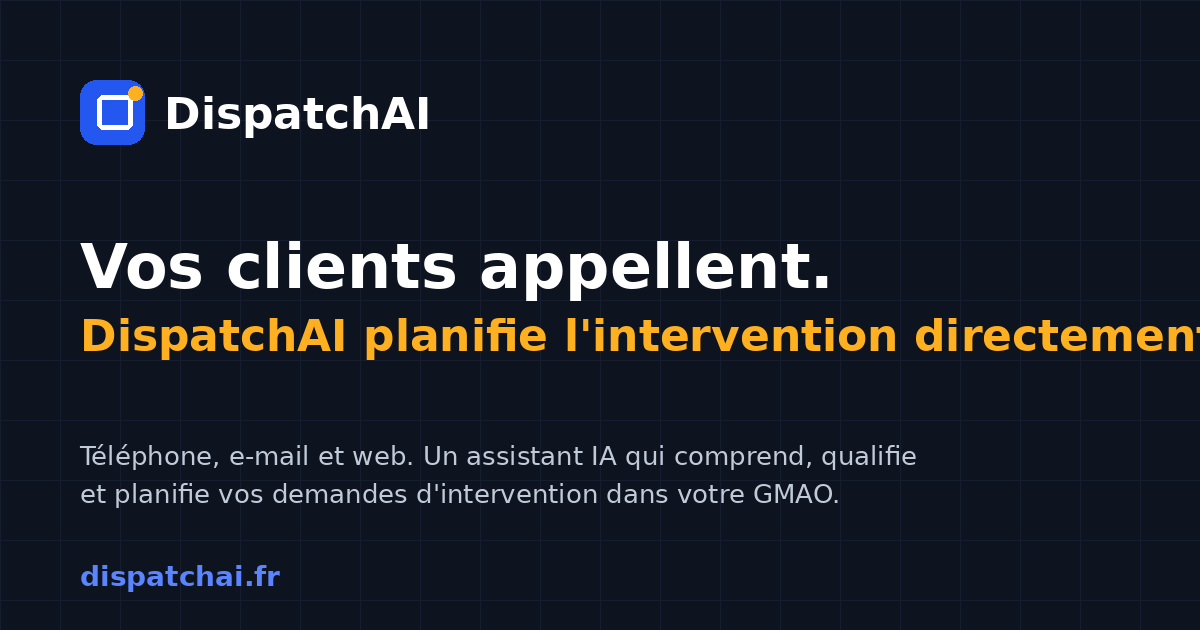
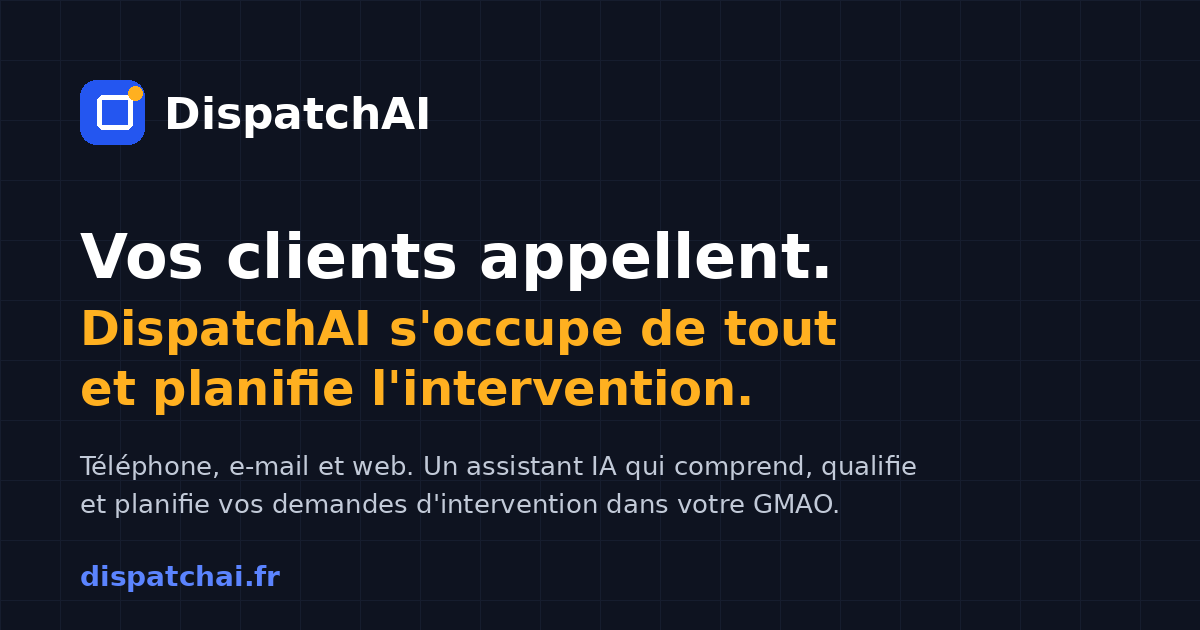
Hero : titre (s'occupe de tout et planifie l'intervention)

Changed region(s): [[0.0617, 0.3619, 1.0, 0.6635], [0.0617, 0.6937, 0.7708, 0.8143]]

diff --git a/public/index.html b/public/index.html
@@ -3,7 +3,7 @@
 <head>
 <meta charset="utf-8">
 <meta name="viewport" content="width=device-width, initial-scale=1, viewport-fit=cover">
-<title>DispatchAI : vos clients appellent, l'intervention est planifiée directement</title>
+<title>DispatchAI : vos clients appellent, DispatchAI s'occupe de tout et planifie l'intervention</title>
 <meta name="description" content="DispatchAI reçoit les demandes d'intervention de vos clients par téléphone, e-mail et web, les comprend, les qualifie et les planifie directement dans votre GMAO. Pour les prestataires de maintenance et de SAV.">
 <meta name="robots" content="index, follow, max-image-preview:large">
 <meta name="theme-color" content="#F3F5F9" media="(prefers-color-scheme: light)">
@@ -16,13 +16,13 @@
 <meta property="og:locale" content="fr_FR">
 <meta property="og:site_name" content="DispatchAI">
 <meta property="og:url" content="https://dispatchai.fr/">
-<meta property="og:title" content="DispatchAI : vos clients appellent, l'intervention est planifiée directement">
+<meta property="og:title" content="DispatchAI : vos clients appellent, DispatchAI s'occupe de tout et planifie l'intervention">
 <meta property="og:description" content="Téléphone, e-mail, web : un seul assistant IA reçoit, comprend, qualifie et planifie vos demandes d'intervention dans votre GMAO.">
 <meta property="og:image" content="https://dispatchai.fr/og-image.png">
 <meta property="og:image:width" content="1200">
 <meta property="og:image:height" content="630">
 <meta name="twitter:card" content="summary_large_image">
-<meta name="twitter:title" content="DispatchAI : vos clients appellent, l'intervention est planifiée directement">
+<meta name="twitter:title" content="DispatchAI : vos clients appellent, DispatchAI s'occupe de tout et planifie l'intervention">
 <meta name="twitter:description" content="L'assistant IA des prestataires de maintenance et de SAV. Connecté à votre GMAO.">
 <meta name="twitter:image" content="https://dispatchai.fr/og-image.png">
 
@@ -518,7 +518,7 @@ dialog .d-body p{margin-bottom:10px}
   <div class="wrap hero-grid">
     <div>
       <span class="pill reveal"><i aria-hidden="true"></i>Disponible pour les prestataires de maintenance et de SAV</span>
-      <h1 id="h1" class="reveal d1">Vos clients appellent. DispatchAI planifie l'intervention directement.</h1>
+      <h1 id="h1" class="reveal d1">Vos clients appellent. DispatchAI s'occupe de tout et planifie l'intervention.</h1>
       <p class="lead reveal d2">Un assistant IA qui répond au téléphone, lit vos e-mails et accueille vos demandes web. Il comprend la panne, vérifie le contrat et l'urgence, puis propose au client un créneau compatible avec les compétences, les disponibilités et les tournées de vos techniciens. Dans l'heure quand c'est urgent, dans deux jours quand ça peut attendre. Jour et nuit, sans formulaire.</p>
       <div class="hero-actions reveal d3">
         <a class="btn btn-primary" href="#demo">Demander une démo
